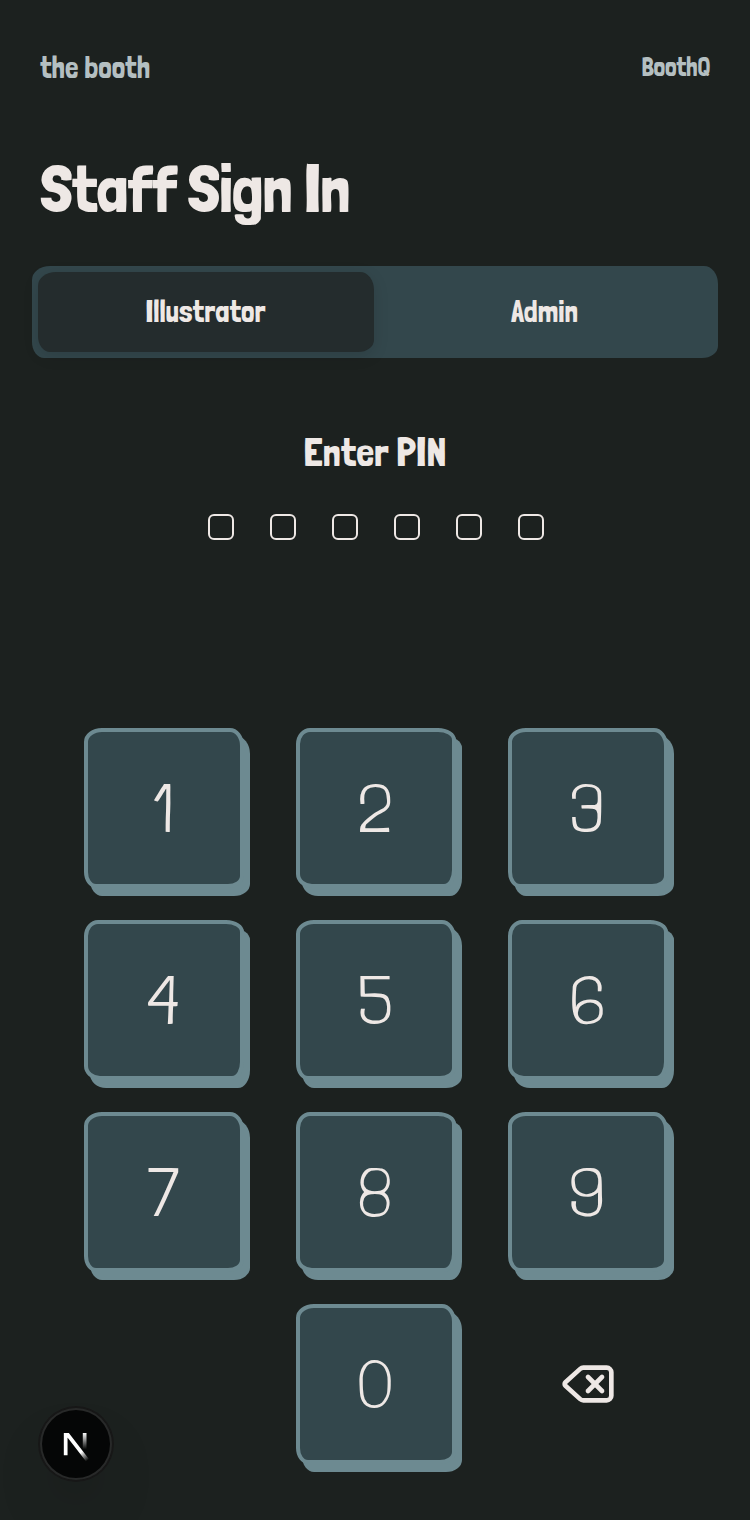
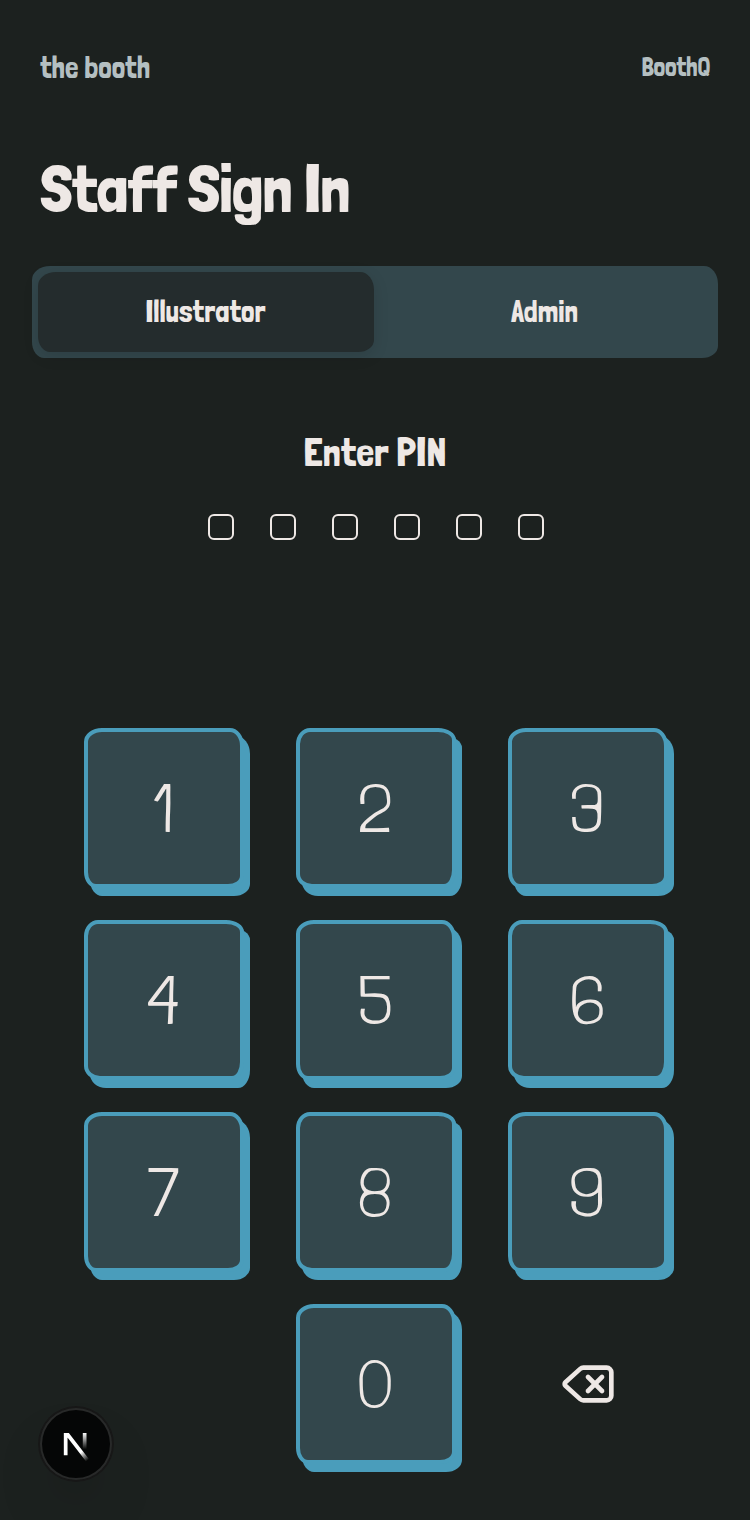
feat(web): blue sticker outline color
Claude-Session: https://claude.ai/code/session_01Ushnt7UGVZbyXoppf12xAJ

diff --git a/apps/web/app/globals.css b/apps/web/app/globals.css
@@ -29,7 +29,7 @@
   --glass-edge: rgba(255, 255, 255, 0.9);
   --glass-shadow: 0 8px 28px rgba(28, 33, 31, 0.14);
   --dim: rgba(28, 33, 31, 0.35);
-  --outline: #1c211f;
+  --outline: #086385;
   --on-danger: #ffffff;
 
   --status-gray-bg: #d6e3e6;
@@ -66,7 +66,7 @@
     --glass-edge: rgba(238, 232, 229, 0.14);
     --glass-shadow: 0 8px 28px rgba(0, 0, 0, 0.55);
     --dim: rgba(0, 0, 0, 0.55);
-    --outline: #6d8a91;
+    --outline: #4a9dbb;
     --on-danger: #1c211f;
 
     --status-gray-bg: #37454a;

diff --git a/docs/UI.md b/docs/UI.md
@@ -59,6 +59,7 @@ The app follows the phone's light/dark setting automatically. There is no in-app
 | `--glass` | `rgba(233,243,245,.72)` | `rgba(36,44,45,.72)` | Glass surfaces |
 | `--glass-edge` | `rgba(255,255,255,.9)` | `rgba(238,232,229,.14)` | Glass 1px border |
 | `--dim` | `rgba(28,33,31,.35)` | `rgba(0,0,0,.55)` | Backdrop behind sheets |
+| `--outline` | `#086385` | `#4A9DBB` | `.sticker` border and offset shadow |
 
 Palette source: sky blue `#91C8D3` (primary family, with a deeper blue `#2A6F80` derived for light-mode buttons/links), mustard `#EBAC1F` (accent), peach `#EFD0AF`, ink `#1C211F`, paper `#EEE8E5`. Dark scheme uses ink as the background and the sky blue as primary.
 
